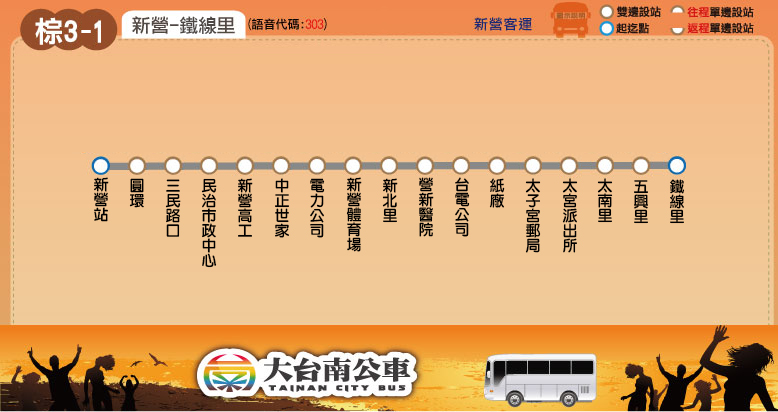
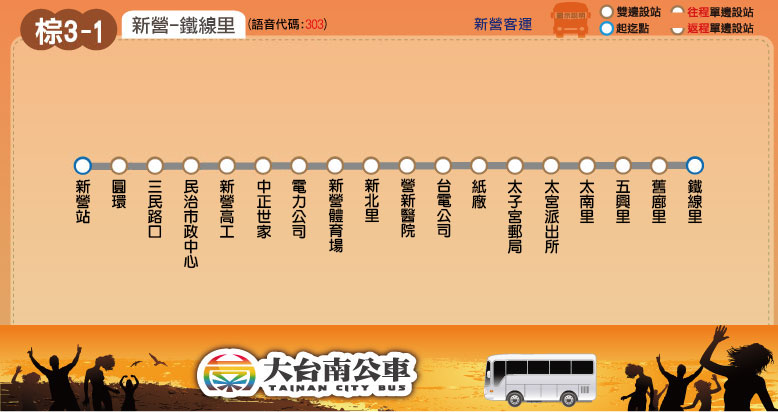
Update the time schedule: green,g22,b3-1

Changed region(s): [[0.0925, 0.3786, 0.9254, 0.6699]]

diff --git a/route/fare_and_time/green.js b/route/fare_and_time/green.js
@@ -32,7 +32,7 @@ green_fare = [
 // format = [time at the start stop] or
 // [time, other] or
 // [time, start_stop, end_stop, other]
-green_main_stop_name = ["臺南公園<br />（公園路）","臺南<br />火車站","南工社區","臺南大學<br />附中","永康","新化","臺南醫院<br />新化分院","豐德","左鎮<br />化石館","左鎮","玉井"];
+green_main_stop_name = ["臺南公園<br />(公園路)","臺南<br />火車站","南工社區","臺南大學<br />附中","永康","新化","臺南醫院<br />新化分院","豐德","左鎮<br />化石館","左鎮","玉井"];
 green_main_stop_time_consume = [0, 5, 14, 19, 22, 45, 53, 57, 61, 65, 75];
 green_important_stop = [0, 1, 5, 10]; // 臺南公園, 臺南火車站, 新化, 玉井
 green_time_go = [["05:55"],["06:10"],["06:25"],["06:40",['L']],["06:55"],
@@ -46,5 +46,5 @@ green_time_return = [["05:40",10,5,['W']],["06:10",5,0],["06:20",5,0],["06:00"],
 ["07:00"],["07:30"],["07:45"],["08:00"],["08:15",['L']],["08:30"],["09:00"],["09:15"],["09:30"],["09:45"],["10:00"],["10:30"],
 ["10:45"],["11:00"],["11:30",['L']],["12:00"],["12:15"],["12:30"],["12:45"],["13:00"],["13:30"],["13:45"],["14:00"],["14:30",['L']],
 ["15:00"],["15:15"],["15:30"],["16:30",5,0,['W']],["16:00"],["16:30"],["16:45",10,5,['W']],["16:45",['W']],["17:00"],["17:15"],
-["17:30"],["17:45"],["18:00",['L']],["18:30"],["19:00"],["19:30"],["20:00"],["20:30"],["21:00"],["21:15",['<font color="blue">W</font>螢']],["21:30"],["22:00",['L']],["22:15",['<font color="red">H</font>螢']]
+["17:30"],["17:45"],["18:00",['L']],["18:30"],["19:00"],["19:30"],["20:00"],["20:30"],["21:00"],["21:15"],["21:30"],["22:00",['L']]
 ];

diff --git a/route/fare_and_time/brown_3_1.js b/route/fare_and_time/brown_3_1.js
@@ -5,7 +5,7 @@ brown_3_1_interval_stop = [
 ["紙廠"], // 紙廠
 ["太子宮郵局","太宮派出所","太南里"], // 太宮派出所
 ["五興里"], // 五興里
-["鐵線里"] // 鐵線里
+["舊廍里","鐵線里"] // 鐵線里
 ];
 brown_3_1_stop_time_consume = [0,2,4,6,8,9,9,10,11,11,14,16,18,18,20,23,25];
 brown_3_1_fare = [
@@ -19,8 +19,8 @@ brown_3_1_fare = [
 // format = [time at the start stop] or
 // [time, other] or
 // [time, start_stop, end_stop, other]
-brown_3_1_main_stop_name = ["新營","台電公司","太宮<br />派出所","五興里","鐵線里"];
-brown_3_1_main_stop_time_consume = [0, 14, 18, 23, 25];
-brown_3_1_important_stop = [0, 4]; // 新營, 鐵線里
-brown_3_1_time_go = [["07:45"],["11:00"],["15:15"]];
-brown_3_1_time_return = [["08:15"],["11:30"],["15:45"]];
+brown_3_1_main_stop_name = ["新營","紙廠","太宮<br />派出所","五興里","舊廍里","鐵線里"];
+brown_3_1_main_stop_time_consume = [0, 16, 18, 23, 27, 35];
+brown_3_1_important_stop = [0, 5]; // 新營, 鐵線里
+brown_3_1_time_go = [["07:45"],["10:50"],["15:05"]];
+brown_3_1_time_return = [["08:25"],["11:30"],["15:45"]];

diff --git a/route/fare_and_time/green_22.js b/route/fare_and_time/green_22.js
@@ -20,5 +20,5 @@ green_22_fare = [
 green_22_main_stop_name = ["玉井","鹿陶","鹿陶洋","楠西","香蕉市","梅嶺<br />資訊站","梅嶺"];
 green_22_main_stop_time_consume = [0, 7, 9, 15, 23, 28, 40];
 green_22_important_stop = [0, 3, 6]; // 玉井, 楠西, 梅嶺
-green_22_time_go = [["07:20"],["08:10",['H']],["09:30",['H']],["10:50"],["11:30"],["12:30",['H']],["15:40",['H']],["17:10",['H']],["18:00"],["19:30",['H']],["20:50",['螢']]];
-green_22_time_return = [["08:00"],["08:50",['H']],["10:10",['H']],["11:30"],["12:10"],["13:10",['H']],["16:20",['H']],["17:50",['H']],["18:40"],["20:10",['H']],["21:30",['螢']]];
+green_22_time_go = [["07:20"],["08:10",['H']],["09:30",['H']],["10:50"],["11:30"],["12:30",['H']],["15:40",['H']],["17:10",['H']],["18:00"],["19:30",['H']]];
+green_22_time_return = [["08:00"],["08:50",['H']],["10:10",['H']],["11:30"],["12:10"],["13:10",['H']],["16:20",['H']],["17:50",['H']],["18:40"],["20:10",['H']]];

diff --git a/green/green.html b/green/green.html
@@ -20,7 +20,7 @@
 	block_route_map(null);
 	block_route_info(route_interval,'興南客運','尖15離30','里程計費','http://2384.tainan.gov.tw:8080/AGPSRemoteQuery3/ajaxBus.jsp?pathId=1100&locale=zh_TW');
 	block_fare(0, null);
-	block_time_schedule('臺南公園(公園路)','玉井',W_message+'；'+L_message+'<br /><br />為配合「2015梅嶺賞螢季」，活動期間104年04月25日-104年05月10日更改時刻如下：<br /><font color="red">「H螢」</font>表示於活動期間之假日行駛，活動結束後停駛'+'<br /><font color="blue">「W螢」</font>表示於活動期間之平日行駛，活動結束後改回每日行駛');
+	block_time_schedule('臺南公園(公園路)','玉井',W_message+'；'+L_message);
 	block_transfer(transfer_tainan_railway_station + transfer_hsinhua + transfer_yujing);
 	block_copyright();
 </script>

diff --git a/green/green_22.html b/green/green_22.html
@@ -20,7 +20,7 @@
 	block_route_map(null);
 	block_route_info(route_interval,'興南客運','','里程計費','http://2384.tainan.gov.tw:8080/AGPSRemoteQuery3/ajaxBus.jsp?pathId=1122&locale=zh_TW');
 	block_fare(0, null);
-	block_time_schedule('玉井','梅嶺',H_message+'<br /><font color="blue">「螢」</font>表示僅於「2015梅嶺賞螢季」活動期間104年04月25日-104年05月10日行駛');
+	block_time_schedule('玉井','梅嶺',H_message);
 	block_transfer(transfer_yujing);
 	block_copyright();
 </script>
